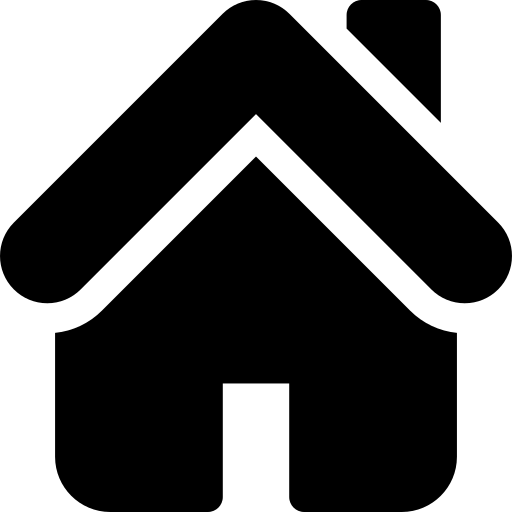
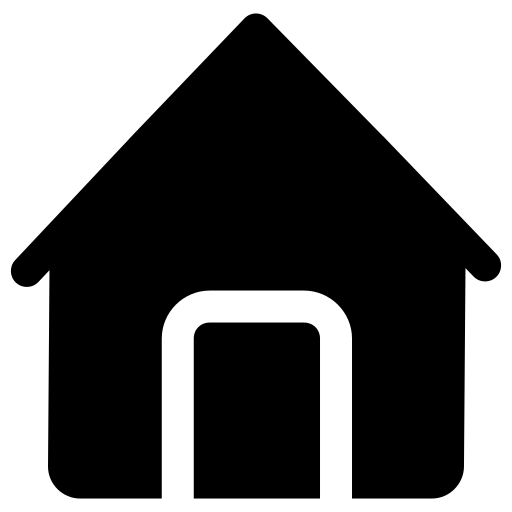
PROFILE SCREEN DONE - CSS

Changed region(s): [[0.0, 0.0, 1.0, 1.0], [0.6562, 0.0, 0.875, 0.25]]

diff --git a/Style.css b/Style.css
@@ -1023,67 +1023,6 @@ body {
   box-shadow: 0 4px 10px rgba(0,0,0,0.2);
 }
 
-
-/* =========================================================
-   17. NAV BAR
-   ========================================================= */
-.nav-bar {
-  position: absolute;
-  left: 18px;
-  right: 18px;
-  bottom: 14px;
-  height: 62px;
-  padding: 0 10px;
-  display: flex;
-  align-items: center;
-  justify-content: space-between;
-  background: rgba(255,255,255,0.92);
-  border-radius: 32px;
-  box-shadow: 0 10px 28px rgba(0,0,0,0.14);
-  border: 1px solid rgba(0,0,0,0.05);
-  z-index: 50;
-}
-
-.nav-bar button {
-  flex: 1;
-  height: 46px;
-  border: 0;
-  background: transparent;
-  display: flex;
-  align-items: center;
-  justify-content: center;
-  cursor: pointer;
-  -webkit-tap-highlight-color: transparent;
-  transition: transform 0.15s ease, background 0.15s ease, opacity 0.15s ease;
-}
-
-.nav-bar button img {
-  width: 22px;
-  height: 22px;
-  opacity: 0.55;
-  transition: opacity 0.15s ease, transform 0.15s ease;
-}
-
-.nav-bar button:hover img {
-  opacity: 0.85;
-}
-
-.nav-bar button:active {
-  transform: scale(0.95);
-}
-
-.nav-bar button.active {
-  flex: 0 0 46px;
-  width: 46px;
-  height: 46px;
-  border-radius: 50%;
-  background: rgba(0,0,0,0.08);
-}
-
-.nav-bar button.active img {
-  opacity: 1;
-}
-
 /* =========================================================
    ADD CLIENT SCREEN
    ========================================================= */
@@ -1592,4 +1531,110 @@ body {
 #screen-profile .danger-item span,
 #screen-profile .danger-item div {
   color: #B91C1C;
+}
+
+/* =========================================
+   FLOATING PILL NAVBAR - FIXED
+========================================= */
+
+.bottom-nav {
+  position: absolute;
+  left: 18px;
+  right: 18px;
+  bottom: 14px;
+
+  height: 74px;
+  padding: 10px 12px;
+
+  display: flex;
+  align-items: center;
+  justify-content: space-between;
+  gap: 6px;
+
+  background: #ffffff;
+  border-radius: 999px;
+  box-shadow: 0 10px 24px rgba(0, 0, 0, 0.12);
+  z-index: 100;
+}
+
+/* each nav button */
+.bottom-nav .nav-item {
+  flex: 1 1 0;
+  min-width: 44px;
+  height: 52px;
+  padding: 0 10px;
+
+  border: none;
+  border-radius: 999px;
+  background: transparent;
+
+  display: flex;
+  align-items: center;
+  justify-content: center;
+  gap: 8px;
+
+  cursor: pointer;
+  -webkit-tap-highlight-color: transparent;
+  transition: transform 0.15s ease, background-color 0.15s ease, opacity 0.15s ease;
+}
+
+/* active item pill */
+.bottom-nav .nav-item.is-active {
+  flex: 0 0 auto;
+  min-width: 104px; /* important: prevents text clipping */
+  padding: 0 16px;
+  background: #000000;
+}
+
+/* icon sizes */
+.bottom-nav .nav-icon {
+  width: 22px;
+  height: 22px;
+  object-fit: contain;
+  flex-shrink: 0;
+  display: block;
+}
+
+/* active/inactive icon visibility */
+.bottom-nav .nav-item .icon-active {
+  display: none;
+}
+
+.bottom-nav .nav-item.is-active .icon-default {
+  display: none;
+}
+
+.bottom-nav .nav-item.is-active .icon-active {
+  display: block;
+}
+
+/* label hidden by default */
+.bottom-nav .nav-label {
+  display: none;
+  white-space: nowrap;
+
+  font-family: "Manrope", sans-serif;
+  font-size: 15px;
+  font-weight: 700;
+  line-height: 1;
+  color: #ffffff;
+}
+
+/* label visible only on active item */
+.bottom-nav .nav-item.is-active .nav-label {
+  display: inline-block;
+}
+
+/* inactive icons */
+.bottom-nav .nav-item:not(.is-active) .icon-default {
+  opacity: 0.78;
+}
+
+/* interactions */
+.bottom-nav .nav-item:active {
+  transform: scale(0.96);
+}
+
+.bottom-nav .nav-item:hover:not(.is-active) .icon-default {
+  opacity: 1;
 }

diff --git a/Index.html b/Index.html
@@ -665,25 +665,35 @@
       <!-- ========================================
            BOTTOM NAVBAR
       ========================================= -->
-      <nav class="nav-bar notch" aria-label="Navigation principale">
-        <button class="nav-item active" type="button" aria-label="Home">
-          <span class="icon"><img src="Icons/home click.png" alt=""></span>
+      <nav class="bottom-nav" aria-label="Navigation principale">
+        <button class="nav-item is-active" type="button" aria-label="Home">
+          <img class="nav-icon icon-default" src="Icons/home no click.png" alt="Home icon inactive">
+          <img class="nav-icon icon-active" src="Icons/home click.png" alt="Home icon active">
+          <span class="nav-label">Home</span>
         </button>
 
-        <button class="nav-item" type="button" aria-label="History">
-          <span class="icon"><img src="Icons/block note no click.png" alt=""></span>
+        <button class="nav-item" type="button" aria-label="Search">
+          <img class="nav-icon icon-default" src="Icons/block note no click.png" alt="Search icon inactive">
+          <img class="nav-icon icon-active" src="Icons/block note click.png" alt="Search icon active">
+          <span class="nav-label">Notes</span>
         </button>
 
-        <button class="nav-item" type="button" aria-label="Scan">
-          <span class="icon"><img src="Icons/customer no click.png" alt=""></span>
+        <button class="nav-item" type="button" aria-label="Offers">
+          <img class="nav-icon icon-default" src="Icons/customer no click.png" alt="Offers icon inactive">
+          <img class="nav-icon icon-active" src="Icons/customer click.png" alt="Offers icon active">
+          <span class="nav-label">Clients</span>
         </button>
 
-        <button class="nav-item" type="button" aria-label="Card">
-          <span class="icon"><img src="Icons/rapport no click.png" alt=""></span>
+        <button class="nav-item" type="button" aria-label="Cart">
+          <img class="nav-icon icon-default" src="Icons/rapport no click.png" alt="Cart icon inactive">
+          <img class="nav-icon icon-active" src="Icons/rapport click.png" alt="Cart icon active">
+          <span class="nav-label">Repports</span>
         </button>
 
         <button class="nav-item" type="button" aria-label="Profile">
-          <span class="icon"><img src="Icons/user no click.png" alt=""></span>
+          <img class="nav-icon icon-default" src="Icons/user no click.png" alt="Profile icon inactive">
+          <img class="nav-icon icon-active" src="Icons/user click.png" alt="Profile icon active">
+          <span class="nav-label">Profile</span>
         </button>
       </nav>
 